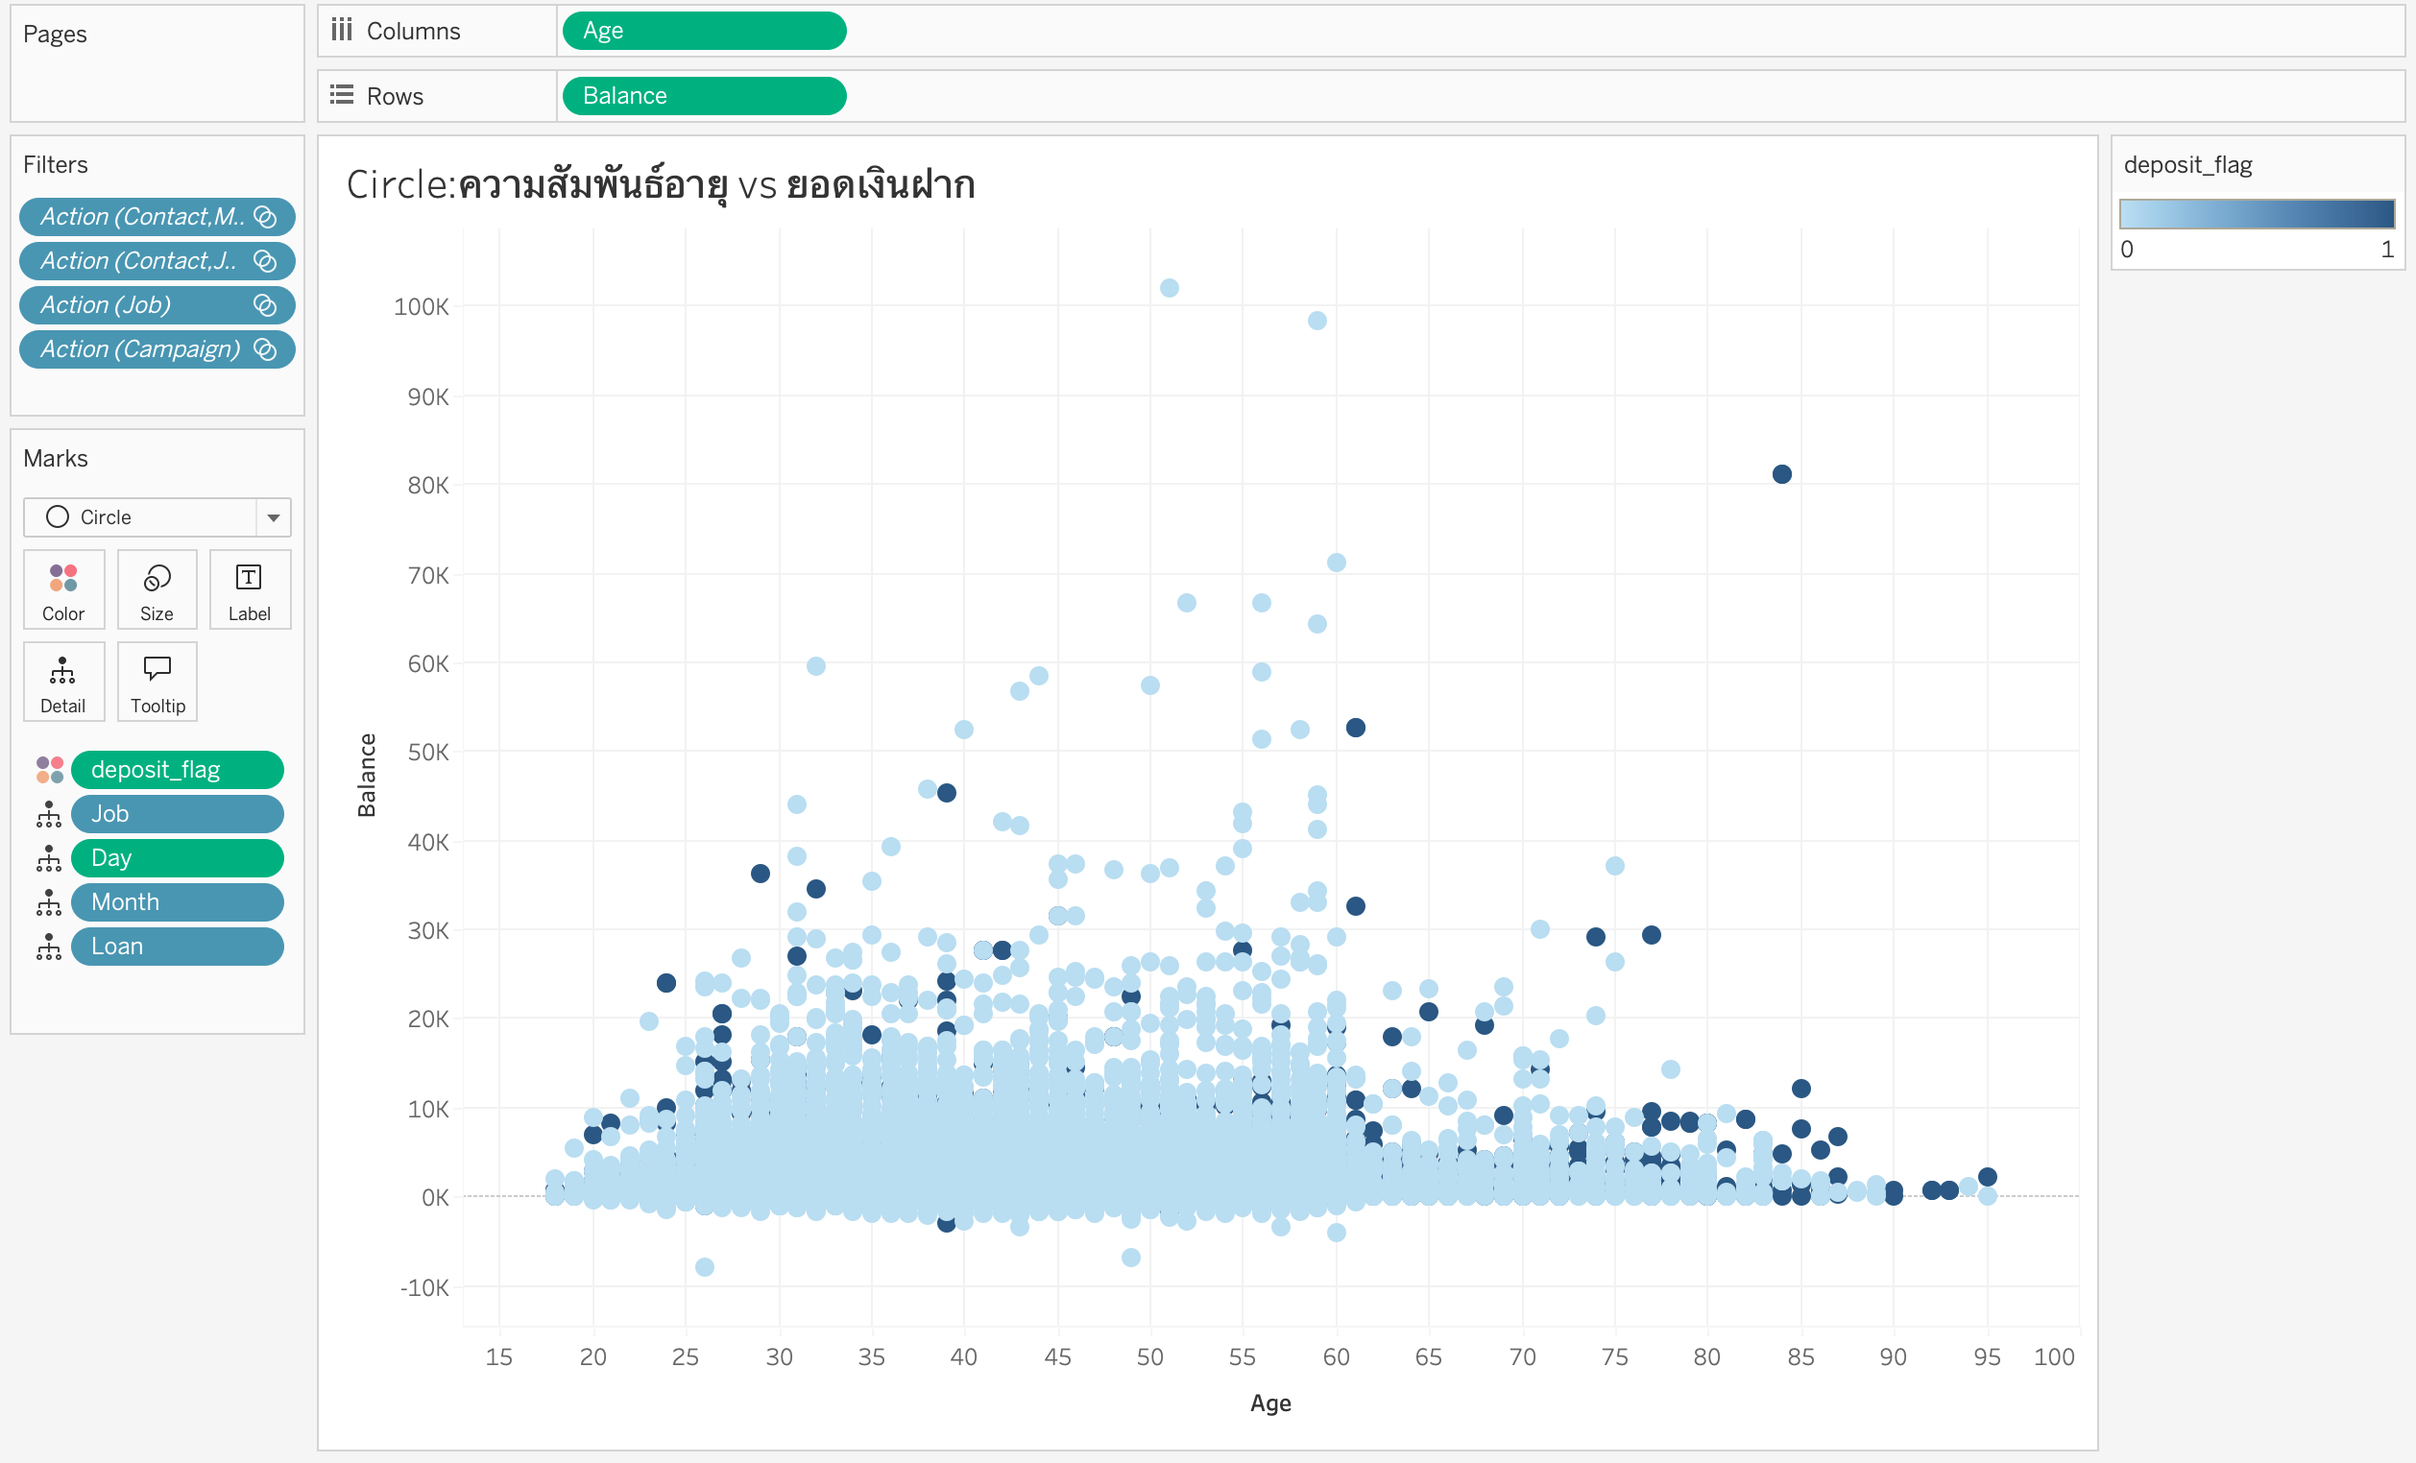
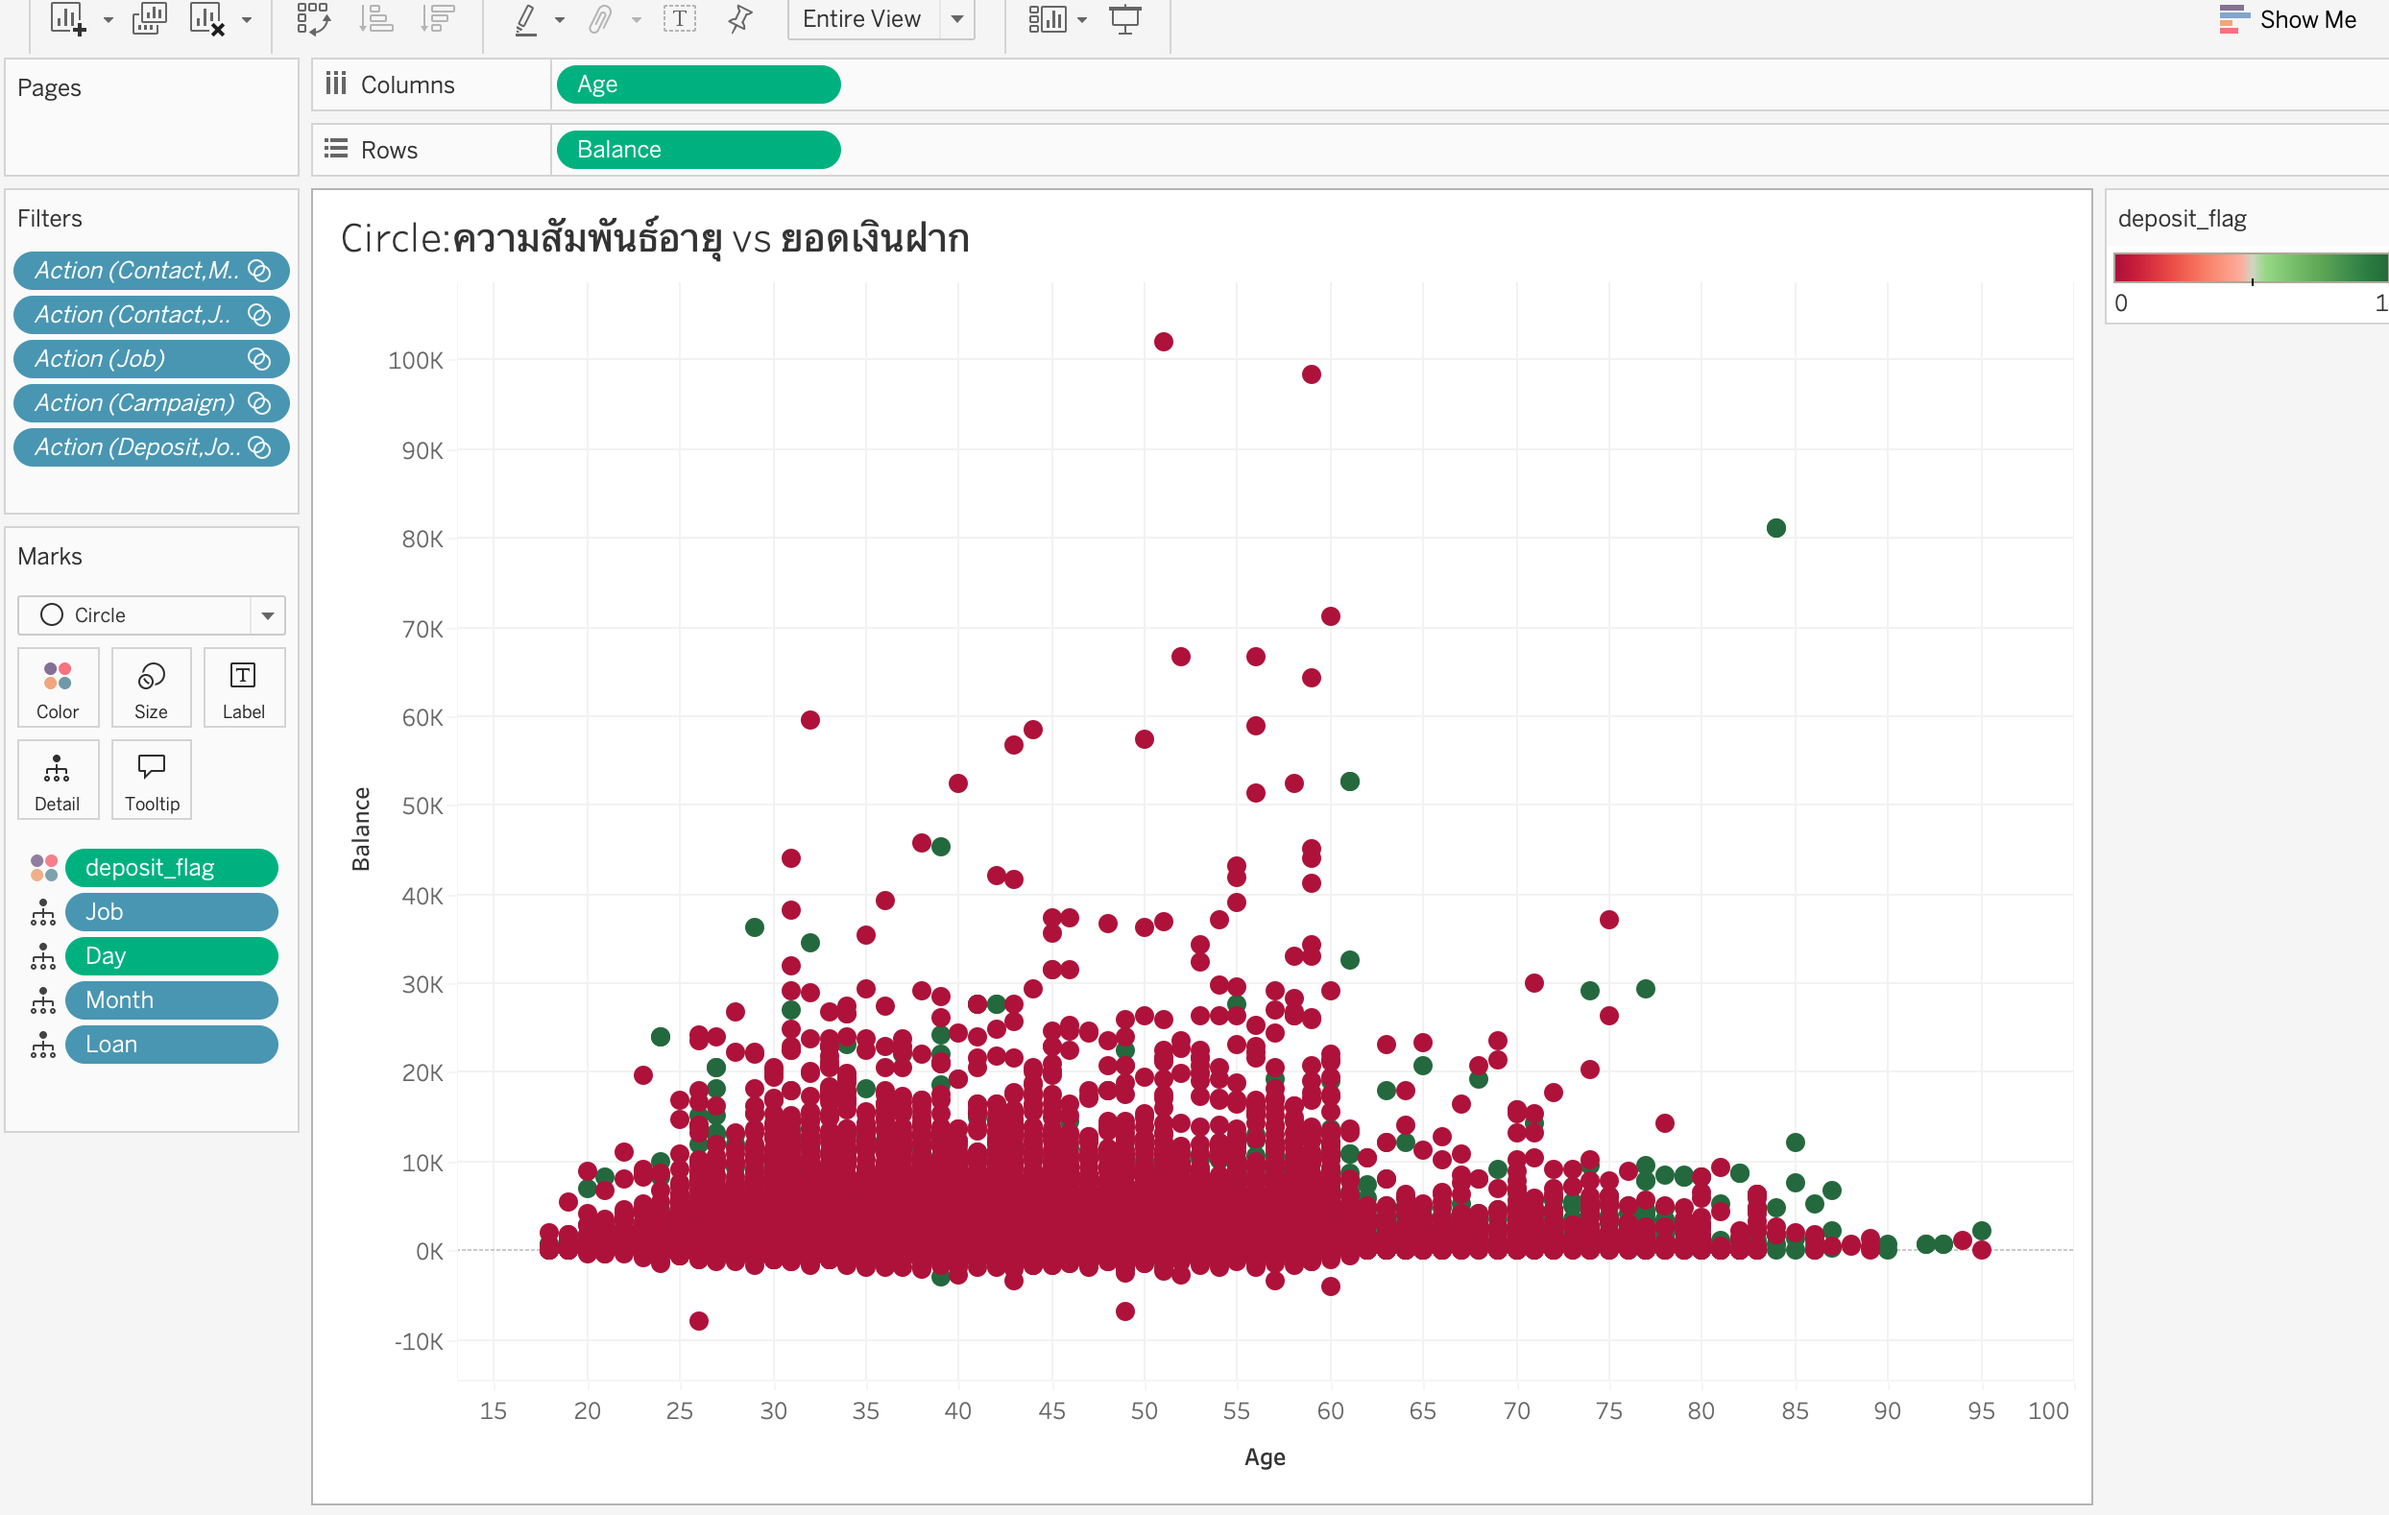
edit readme

diff --git a/README.md b/README.md
@@ -128,12 +128,16 @@ files.download('Bank_Target_Marketing_Dataset_feature_engineered.csv')
 ##  Exploratory Data Analysis, EDA
 ### 1. Number of Calls vs. Average Deposit Flag 
 - This scatter plot shows the relationship between the total number of calls (x-axis) and the average deposit flag (y-axis), segmented by job categories.
+  - Jobs like "Student" and "Retired" have higher average deposit flags with fewer calls.
+  - Jobs like "blue-collar" require more calls but have lower average deposit flags.
+  
 <img width="1258" alt="Response by Occupation" src="https://github.com/user-attachments/assets/43e395ad-41a4-4e14-8466-ac56bf4a47b6" />
 
 ---
 
 ### 2. Balance vs. Deposit Decision
 - This box-and-whisker plot shows the distribution of account balances for customers who made deposits (`yes` in green) and those who did not (`no` in red).
+  - Customers with  balances more than 0 are likely to deposit.
 
 <img width="1258" alt="ความสัมพันธ์ระหว่างยอดเงินคงเหลือกับการฝากเงินเพิ่ม" src="https://github.com/user-attachments/assets/e016516f-2343-4099-946c-d3e305232213" />
 
@@ -141,20 +145,26 @@ files.download('Bank_Target_Marketing_Dataset_feature_engineered.csv')
 
 ### 3. Age vs. Balance
 - This scatter plot visualizes the relationship between customer age (x-axis) and account balance (y-axis). The color intensity represents the deposit flag (`1` for deposit, `0` for no deposit).
+  - Customers with higher balances are more likely to deposit (Green points).
+  - Younger customers tend to have lower balances, while older customers show a wider range of balances.
 
-<img width="1258" alt="Age vs. Deposit Amount" src="https://github.com/user-attachments/assets/c5d1a4a2-67a0-4754-ad4a-9c7fa86ed6ee" />
+
 
 ---
 
 ### 4. Monthly Campaign Deposits
 - This line chart shows the total number of deposits `deposit_flag` over the months.
+  - The highest number of deposits occurs in March and May.
+  - There is a significant drop in deposits during the summer months (June to August).
 
 <img width="1244" alt="แนวโน้มการตอบรับแคมเปญรายเดือน" src="https://github.com/user-attachments/assets/5aa4bea2-cea8-4296-a0c2-c27fdcc3add3" />
 
 ---
 
 ### 5. Monthly Campaign Response Rate
-- This line chart tracks the response rate (y-axis) over the months (x-axis)
+- This line chart tracks the response rate (y-axis) over the months (x-axis).
+  - The highest response rate occurs in March, followed by December.
+  - The response rate dips significantly in the middle months. `(May to August)`
 
 <img width="1258" alt="แนวโน้มอัตราการตอบรับแคมเปญตามเวลา" src="https://github.com/user-attachments/assets/4932644d-0541-4f21-96f4-cbec67c1c6e3" />
 
@@ -162,20 +172,23 @@ files.download('Bank_Target_Marketing_Dataset_feature_engineered.csv')
 
 ### 6.  Campaign Effectiveness by Number of Calls**  
 - This bar chart shows the conversion rate (y-axis) based on the number of calls (x-axis).
-
-<img width="1258" alt="ประสิทธิภาพของแคมเปญ" src="https://github.com/user-attachments/assets/2f3fb123-c6ae-4e93-ad64-671cb5deda1e" />
+  - The highest conversion rate is observed with fewer calls `(1–2 calls)`.
+  - As the number of calls increases, the conversion rate drops significantly.
 
 ---
 
 ### 7. Response by Day and Month**  
 - This calendar-style heatmap shows the response rate for each day of the month across different months.
+  - Darker squares indicate higher response rates.
+  - Certain days in March and December also show higher response rates.
 
-<img width="1258" alt="วันไหนเดือนใดมีอัตตราการตอบรับแคมเปญเท่าไหร่" src="https://github.com/user-attachments/assets/4c1574b5-acd7-48ef-a613-5ec238574c15" />
+
 
 ---
 
 **8. Response Rate by Occupation**  
 - This bar chart shows the number of deposits (`yes` in green, `no` in red) segmented by job categories.
+  - The highest response rate is from "management" and "blue-collar" jobs, but the actual deposit rate (green portion) is relatively low compared to the total.
 
 <img width="1258" alt="อัตราตอบรับตามอาชีพ" src="https://github.com/user-attachments/assets/6021d7c5-1aeb-4de6-97c2-c53b799e46e8" />
 
